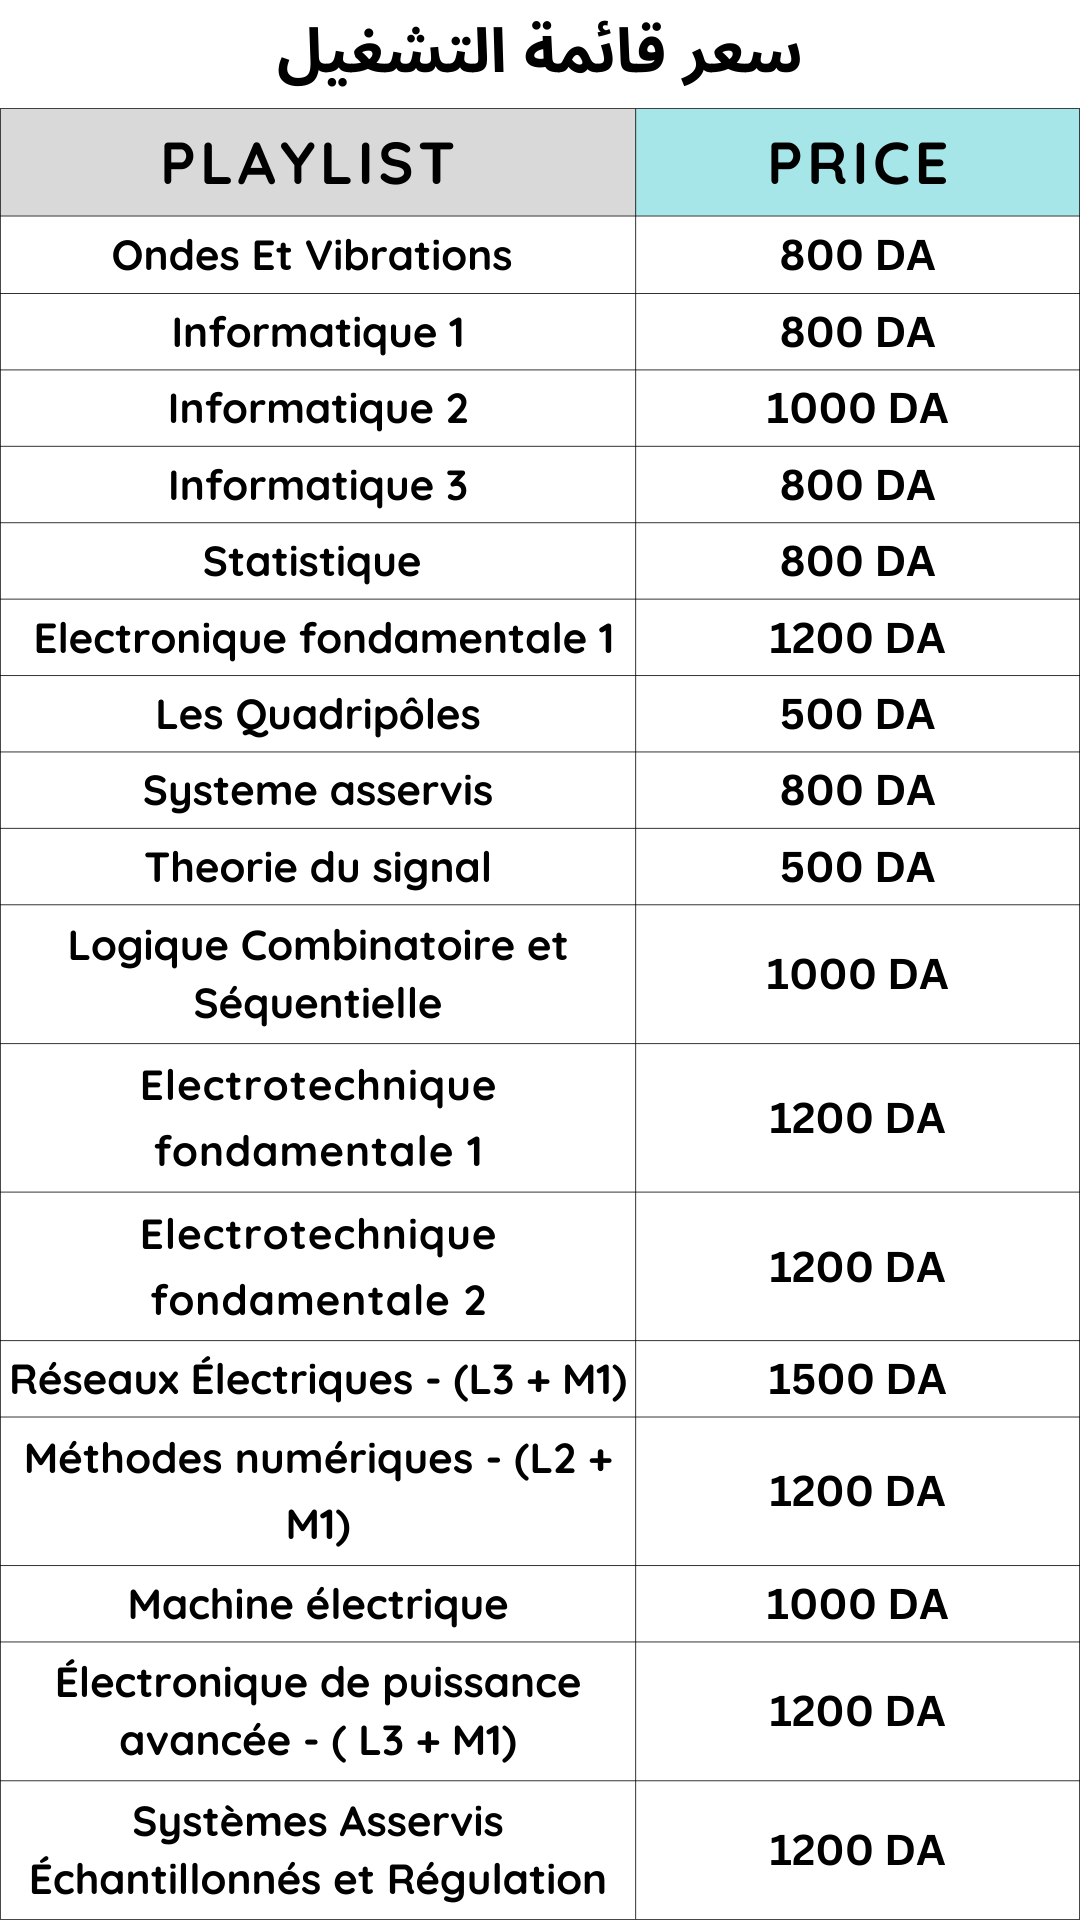
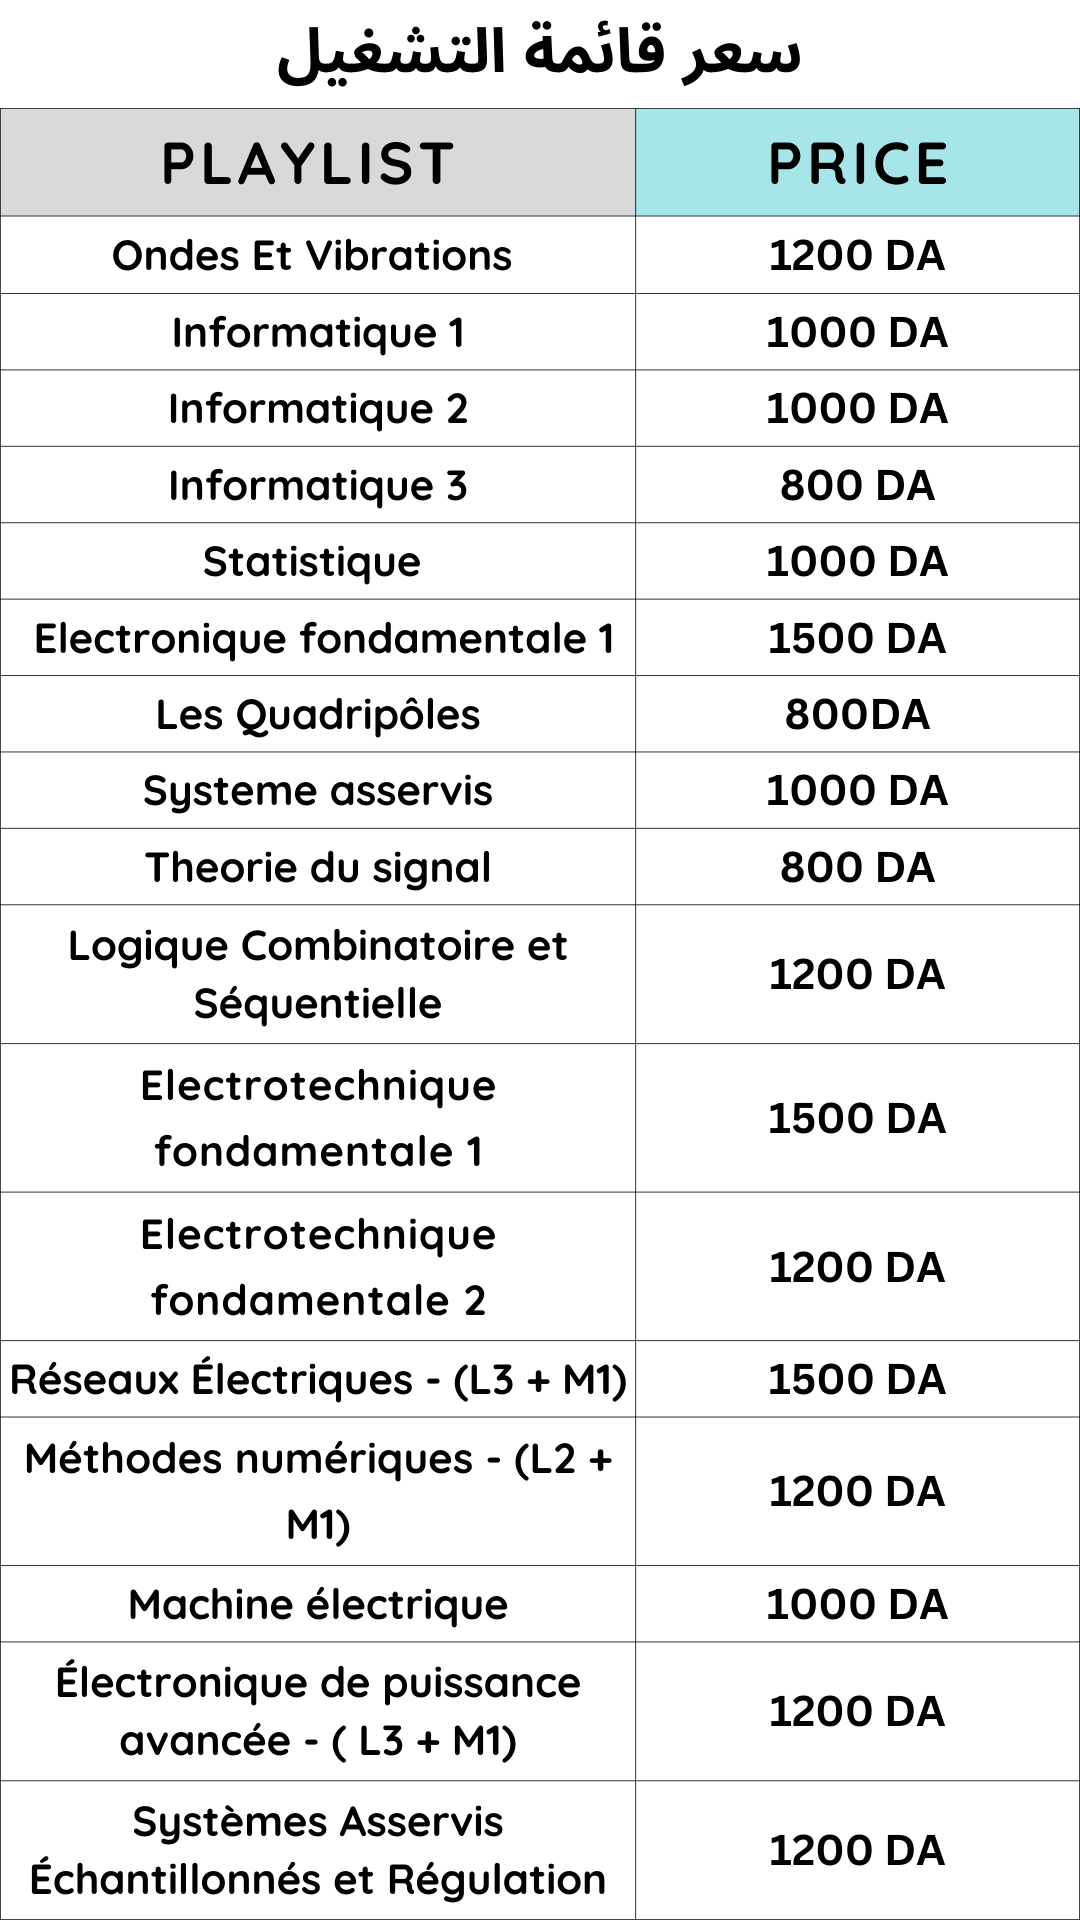
summary

diff --git a/index.html b/index.html
@@ -174,7 +174,7 @@
   </a>
       <h3>Ondes Et Vibrations</h3>
       <p>جميع الفيديوهات مرتبة ومنظمة في قائمة تشغيل على يوتيوب، يمكنك مشاهدتها بعد الدفع فقط. لا تفوت الفرصة</p>
-             <button><a href="price/price.html" target="_blank" >اشترِ الآن – 800 دج فقط</a></button>
+             <button><a href="price/price.html" target="_blank" >اشترِ الآن – 1200 دج فقط</a></button>
   </div>
 
   <!-- Playlist 2 -->
@@ -184,7 +184,7 @@
   </a>
       <h3>Théorie du signal</h3>
       <p>جميع الفيديوهات مرتبة ومنظمة في قائمة تشغيل على يوتيوب، يمكنك مشاهدتها بعد الدفع فقط. لا تفوت الفرصة</p>
-      <button><a href="price/price.html" target="_blank" " >اشترِ الآن – 500 دج فقط</a></button>
+      <button><a href="price/price.html" target="_blank" " >اشترِ الآن – 800 دج فقط</a></button>
   </div>
 
 
@@ -210,7 +210,7 @@
   </a>
       <h3>Les Quadripôles</h3>
       <p>جميع الفيديوهات مرتبة ومنظمة في قائمة تشغيل على يوتيوب، يمكنك مشاهدتها بعد الدفع فقط. لا تفوت الفرصة</p>
-      <button><a href="price/price.html" target="_blank" >اشترِ الآن – 500 دج فقط</a></button>
+      <button><a href="price/price.html" target="_blank" >اشترِ الآن – 800 دج فقط</a></button>
   </div>
 
 
@@ -232,7 +232,7 @@
   </a>
       <h3>Electronique fondamentale 1</h3>
       <p>جميع الفيديوهات مرتبة ومنظمة في قائمة تشغيل على يوتيوب، يمكنك مشاهدتها بعد الدفع فقط. لا تفوت الفرصة</p>
-      <button><a href="price/price.html" target="_blank" >اشترِ الآن – 1200 دج فقط</a></button>
+      <button><a href="price/price.html" target="_blank" >اشترِ الآن – 1500 دج فقط</a></button>
   </div>
 
 
@@ -245,7 +245,7 @@
       </a>
       <h3>Électrotechnique fondamentale 1</h3>
       <p>جميع الفيديوهات مرتبة ومنظمة في قائمة تشغيل على يوتيوب، يمكنك مشاهدتها بعد الدفع فقط. لا تفوت الفرصة</p>
-      <button><a href="price/price.html" target="_blank" >اشترِ الآن – 1200 دج فقط</a></button>
+      <button><a href="price/price.html" target="_blank" >اشترِ الآن – 1500 دج فقط</a></button>
   </div>
 
   
@@ -267,7 +267,7 @@
   </a>
       <h3>Informatique 1</h3>
       <p>جميع الفيديوهات مرتبة ومنظمة في قائمة تشغيل على يوتيوب، يمكنك مشاهدتها بعد الدفع فقط. لا تفوت الفرصة</p>
-      <button><a href="price/price.html" target="_blank" >اشترِ الآن – 800 دج فقط</a></button>
+      <button><a href="price/price.html" target="_blank" >اشترِ الآن – 1000 دج فقط</a></button>
   </div>
 
 
@@ -298,7 +298,7 @@
       </a>
       <h3>Statistique</h3>
       <p>جميع الفيديوهات مرتبة ومنظمة في قائمة تشغيل على يوتيوب، يمكنك مشاهدتها بعد الدفع فقط. لا تفوت الفرصة</p>
-      <button><a href="price/price.html" target="_blank" >اشترِ الآن – 800 دج فقط</a></button>
+      <button><a href="price/price.html" target="_blank" >اشترِ الآن – 1000 دج فقط</a></button>
   </div>
 
   <!-- Playlist 12 -->
@@ -309,7 +309,7 @@
   </a>
       <h3>Systèmes Asservis</h3>
       <p>جميع الفيديوهات مرتبة ومنظمة في قائمة تشغيل على يوتيوب، يمكنك مشاهدتها بعد الدفع فقط. لا تفوت الفرصة</p>
-      <button><a href="price/price.html" target="_blank" >اشترِ الآن – 800 دج فقط</a></button>
+      <button><a href="price/price.html" target="_blank" >اشترِ الآن – 1000 دج فقط</a></button>
   </div>
 
   <!-- Playlist 13 -->
@@ -330,7 +330,7 @@
   </a>
       <h3>Méthodes Numériques (et optimisation) L2+M1</h3>
       <p>جميع الفيديوهات مرتبة ومنظمة في قائمة تشغيل على يوتيوب، يمكنك مشاهدتها بعد الدفع فقط. لا تفوت الفرصة</p>
-      <button><a href="price/price.html" target="_blank" >اشترِ الآن – 1000 دج فقط</a></button>
+      <button><a href="price/price.html" target="_blank" >اشترِ الآن – 1200 دج فقط</a></button>
   </div>
   
 
@@ -341,7 +341,7 @@
           </a>
           <h3>Logique Combinatoire et Séquentielle</h3>
           <p>جميع الفيديوهات مرتبة ومنظمة في قائمة تشغيل على يوتيوب، يمكنك مشاهدتها بعد الدفع فقط. لا تفوت الفرصة</p>
-          <button><a href="price/price.html" target="_blank" target="_blank" >اشترِ الآن – 1000 دج فقط</a></button>
+          <button><a href="price/price.html" target="_blank" target="_blank" >اشترِ الآن – 1200 دج فقط</a></button>
       </div>
       
    <!-- Playlist 30 -->

diff --git a/systemesasservis.html b/systemesasservis.html
@@ -107,7 +107,7 @@
                   </p>            </p>
 
             <div class="parent-container">
-                <a href="price/price.html" class="cta-btn" target="_blank">اشترِ الآن – 800 دج فقط</a>
+                <a href="price/price.html" class="cta-btn" target="_blank">اشترِ الآن – 1000 دج فقط</a>
     
 
             </p>
@@ -274,20 +274,22 @@
 
     
     <section id="registration-section" class="registration-process">
-        <h2>طريقة التسجيل </h2>
+        <h2>طريقة التسجيل</h2>
         <div class="sheets-container">
             <!-- Sheet 1 -->
             <div class="sheet">
-                <a href="pdf800.pdf" target="_blank">
-                    <img src="rec.png" alt="Registration Process Step 1" />
+                <a href="pdf1000.pdf" target="_blank">
+                    <img src="rec1000.png" alt="Registration Process Step 1" />
+                </a>
             </div>
         </div>
     </section>
-
+    
     <div class="trust-info">
         <p>موقعنا آمن وموثوق %100 ✅</p>
         <p>📺 قناتنا على <a href="https://www.youtube.com/watch?v=j_ypDHfZLSw&t=94s" class="youtube-link" target="_blank">يوتيوب</a> تضم أكثر من <strong>58 ألف مشترك</strong> وأكثر من <strong>7 ملايين مشاهدة</strong></p>  
-      </div>
+    </div>
+    
     
 
     <footer>

diff --git a/informatique1.html b/informatique1.html
@@ -103,7 +103,7 @@
                   </p>            </p>
             
                 <div class="parent-container">
-                    <a href="price/price.html" class="cta-btn" target="_blank">اشترِ الآن – 800 دج فقط</a>
+                    <a href="price/price.html" class="cta-btn" target="_blank">اشترِ الآن – 1000 دج فقط</a>
                 </div>
             </p>
             <div class="video-list">
@@ -194,8 +194,8 @@
         <div class="sheets-container">
             <!-- Sheet 1 -->
             <div class="sheet">
-                <a href="pdf800.pdf" target="_blank">
-                    <img src="rec.png" alt="Registration Process Step 1" />
+                <a href="pdf1000.pdf" target="_blank">
+                    <img src="rec1000.png" alt="Registration Process Step 1" />
                 </a>            </div>
         </div>
     </section>

diff --git a/Electrotechnique_fondamentale1.html b/Electrotechnique_fondamentale1.html
@@ -168,7 +168,7 @@
                   </p>            </p>
             
                 <div class="parent-container">
-                    <a href="price/price.html" class="cta-btn" target="_blank">اشترِ الآن – 1200 دج فقط</a>
+                    <a href="price/price.html" class="cta-btn" target="_blank">اشترِ الآن – 1500 دج فقط</a>
                 </div>
             </p>
             <div class="video-list">
@@ -565,8 +565,8 @@
         <div class="sheets-container">
             <!-- Sheet 1 -->
             <div class="sheet">
-                <a href="pdf1200.pdf" target="_blank">
-                    <img src="rec1200.png" alt="Registration Process Step 1" />
+                <a href="pdf1500.pdf" target="_blank">
+                    <img src="rec1500.png" alt="Registration Process Step 1" />
                 </a>
             </div>
         </div>

diff --git a/Logique_Combinatoire_et_Séquentielle.html b/Logique_Combinatoire_et_Séquentielle.html
@@ -166,7 +166,7 @@
                   </p>            </p>
             
                 <div class="parent-container">
-                    <a href="price/price.html" class="cta-btn" target="_blank">اشترِ الآن – 1000 دج فقط</a>
+                    <a href="price/price.html" class="cta-btn" target="_blank">اشترِ الآن – 1200 دج فقط</a>
                 </div>
             </p>
             <div class="video-list">
@@ -316,8 +316,8 @@
         <div class="sheets-container">
             <!-- Sheet 1 -->
             <div class="sheet">
-                <a href="pdf1000.pdf" target="_blank">
-                    <img src="rec1000.png" alt="Registration Process Step 1" />
+                <a href="pdf1200.pdf" target="_blank">
+                    <img src="rec1200.png" alt="Registration Process Step 1" />
                 </a>
             </div>
         </div>

diff --git a/electroniquef1.html b/electroniquef1.html
@@ -167,7 +167,7 @@
                   </p>            </p>
             
                 <div class="parent-container">
-                    <a href="price/price.html" class="cta-btn" target="_blank">اشترِ الآن – 1200 دج فقط</a>
+                    <a href="price/price.html" class="cta-btn" target="_blank">اشترِ الآن – 1500 دج فقط</a>
                 </div>
             </p>
             <div class="video-list">
@@ -524,8 +524,8 @@
         <div class="sheets-container">
             <!-- Sheet 1 -->
             <div class="sheet">
-                <a href="pdf1200.pdf" target="_blank">
-                    <img src="rec1200.png" alt="Registration Process Step 1" />
+                <a href="pdf1500.pdf" target="_blank">
+                    <img src="rec1500.png" alt="Registration Process Step 1" />
                 </a>
             </div>
         </div>

diff --git a/methodenumerique.html b/methodenumerique.html
@@ -170,7 +170,7 @@
                   </p>            </p>
             
                 <div class="parent-container">
-                    <a href="price/price.html" class="cta-btn" target="_blank">اشترِ الآن – 1000 دج فقط</a>
+                    <a href="price/price.html" class="cta-btn" target="_blank">اشترِ الآن – 1200 دج فقط</a>
                 </div>
             </p>
             <div class="video-list">
@@ -367,8 +367,8 @@
         <div class="sheets-container">
             <!-- Sheet 1 -->
             <div class="sheet">
-                <a href="pdf1000.pdf" target="_blank">
-                    <img src="rec1000.png" alt="Registration Process Step 1" />
+                <a href="pdf1200.pdf" target="_blank">
+                    <img src="rec1200.png" alt="Registration Process Step 1" />
                 </a>
             </div>
         </div>

diff --git a/Ondes_Et_Vibrations.html b/Ondes_Et_Vibrations.html
@@ -168,7 +168,7 @@
                   </p>            </p>
             
                 <div class="parent-container">
-                    <a href="price/price.html" class="cta-btn" target="_blank">اشترِ الآن – 800 دج فقط</a>
+                    <a href="price/price.html" class="cta-btn" target="_blank">اشترِ الآن – 1200 دج فقط</a>
                 </div>
             </p>
             <div class="video-list">
@@ -426,8 +426,8 @@
         <div class="sheets-container">
             <!-- Sheet 1 -->
             <div class="sheet">
-                <a href="pdf800.pdf" target="_blank">
-                    <img src="rec.png" alt="Registration Process Step 1" />
+                <a href="pdf1200.pdf" target="_blank">
+                    <img src="rec1200.png" alt="Registration Process Step 1" />
                 </a>
             </div>
         </div>

diff --git a/Theorie_du_signal.html b/Theorie_du_signal.html
@@ -104,7 +104,7 @@
                   </p>            </p>
             
                 <div class="parent-container">
-                    <a href="price/price.html" class="cta-btn" target="_blank">اشترِ الآن – 500 دج فقط</a>
+                    <a href="price/price.html" class="cta-btn" target="_blank">اشترِ الآن – 800 دج فقط</a>
                 </div>
             </p>
             <div class="video-list">
@@ -191,8 +191,8 @@
         <div class="sheets-container">
             <!-- Sheet 1 -->
             <div class="sheet">
-                <a href="pdf500.pdf" target="_blank">
-                    <img src="rec500.png" alt="Registration Process Step 1" />
+                <a href="pdf800.pdf" target="_blank">
+                    <img src="rec.png" alt="Registration Process Step 1" />
                 </a>
             </div>
         </div>

diff --git a/quadripole.html b/quadripole.html
@@ -111,7 +111,7 @@
                   </p>            </p>
             
                 <div class="parent-container">
-                    <a href="price/price.html" class="cta-btn" target="_blank">اشترِ الآن – 500 دج فقط</a>
+                    <a href="price/price.html" class="cta-btn" target="_blank">اشترِ الآن – 800 دج فقط</a>
                 </div>
             </p>
             <div class="video-list">
@@ -245,8 +245,8 @@
         <div class="sheets-container">
             <!-- Sheet 1 -->
             <div class="sheet">
-                <a href="pdf500.pdf" target="_blank">
-                    <img src="rec500.png" alt="Registration Process Step 1" />
+                <a href="pdf800.pdf" target="_blank">
+                    <img src="rec.png" alt="Registration Process Step 1" />
                 </a>
             </div>
         </div>

diff --git a/statistique.html b/statistique.html
@@ -105,7 +105,7 @@
                   </p>            </p>
             
                 <div class="parent-container">
-                    <a href="price/price.html" class="cta-btn" target="_blank">اشترِ الآن – 800 دج فقط</a>
+                    <a href="price/price.html" class="cta-btn" target="_blank">اشترِ الآن – 1000 دج فقط</a>
                 </div>
             </p>
             <div class="video-list">
@@ -226,8 +226,9 @@
         <div class="sheets-container">
             <!-- Sheet 1 -->
             <div class="sheet">
-                <img src="rec.png" alt="Registration Process Step 1" />
-            </div>
+                <a href="pdf1000.pdf" target="_blank">
+                    <img src="rec1000.png" alt="Registration Process Step 1" />
+                </a>            </div>
         </div>
     </section>
 
